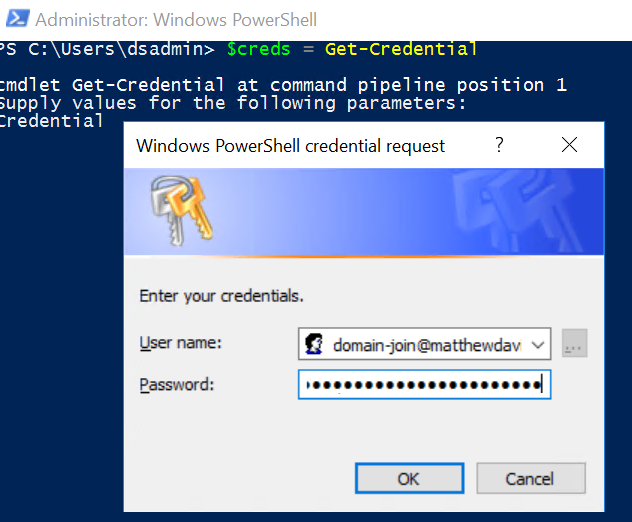
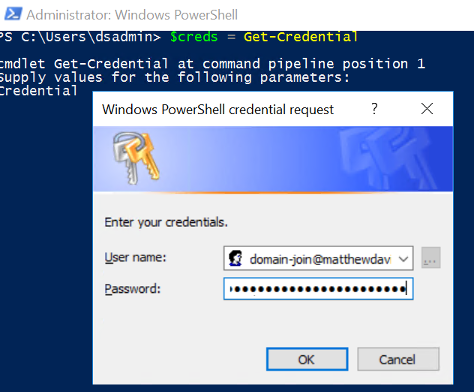
added login with domain accoutn

diff --git a/_posts/2017-08-02-azure-ad-domain-services-4.md b/_posts/2017-08-02-azure-ad-domain-services-4.md
@@ -51,15 +51,18 @@ Login with the **admin user** that was created with the vm **dsadmin** (or whate
 
 Start a PowerShell session as Administrator
 
-Optional - I like to rename the computer
+You'll need to authenticate to the domain when joining it so use the Get-Credential cmdlet to store you domain credentials in a variable. 
+
+**Note** I've always had success using the UserPrincipalName of the user. The samaccountname may not be as expected in Azure AD as outlined at the bottom of this [Microsoft document] on domain joining to Azure AD Domain Services.
 
 ```PowerShell
 $creds = Get-Credential
 Add-Computer -Credential $creds -DomainName yourdomain.com
 Restart-Computer -Force
 ```
-
+You should now be able to login with the domain user you used to join the domain with (or any other user who is a member of the AAD DC Administrators)
 
 [Azure Active Directory Domain Services]: https://azure.microsoft.com/en-gb/services/active-directory-ds/
 [part 1]: http://matthewdavis111.com/azure/azure-ad-domain-services-1/
 [part 2]: http://matthewdavis111.com/azure/azure-ad-domain-services-2/
+[Microsoft Document]: https://docs.microsoft.com/en-us/azure/active-directory-domain-services/active-directory-ds-admin-guide-join-windows-vm
